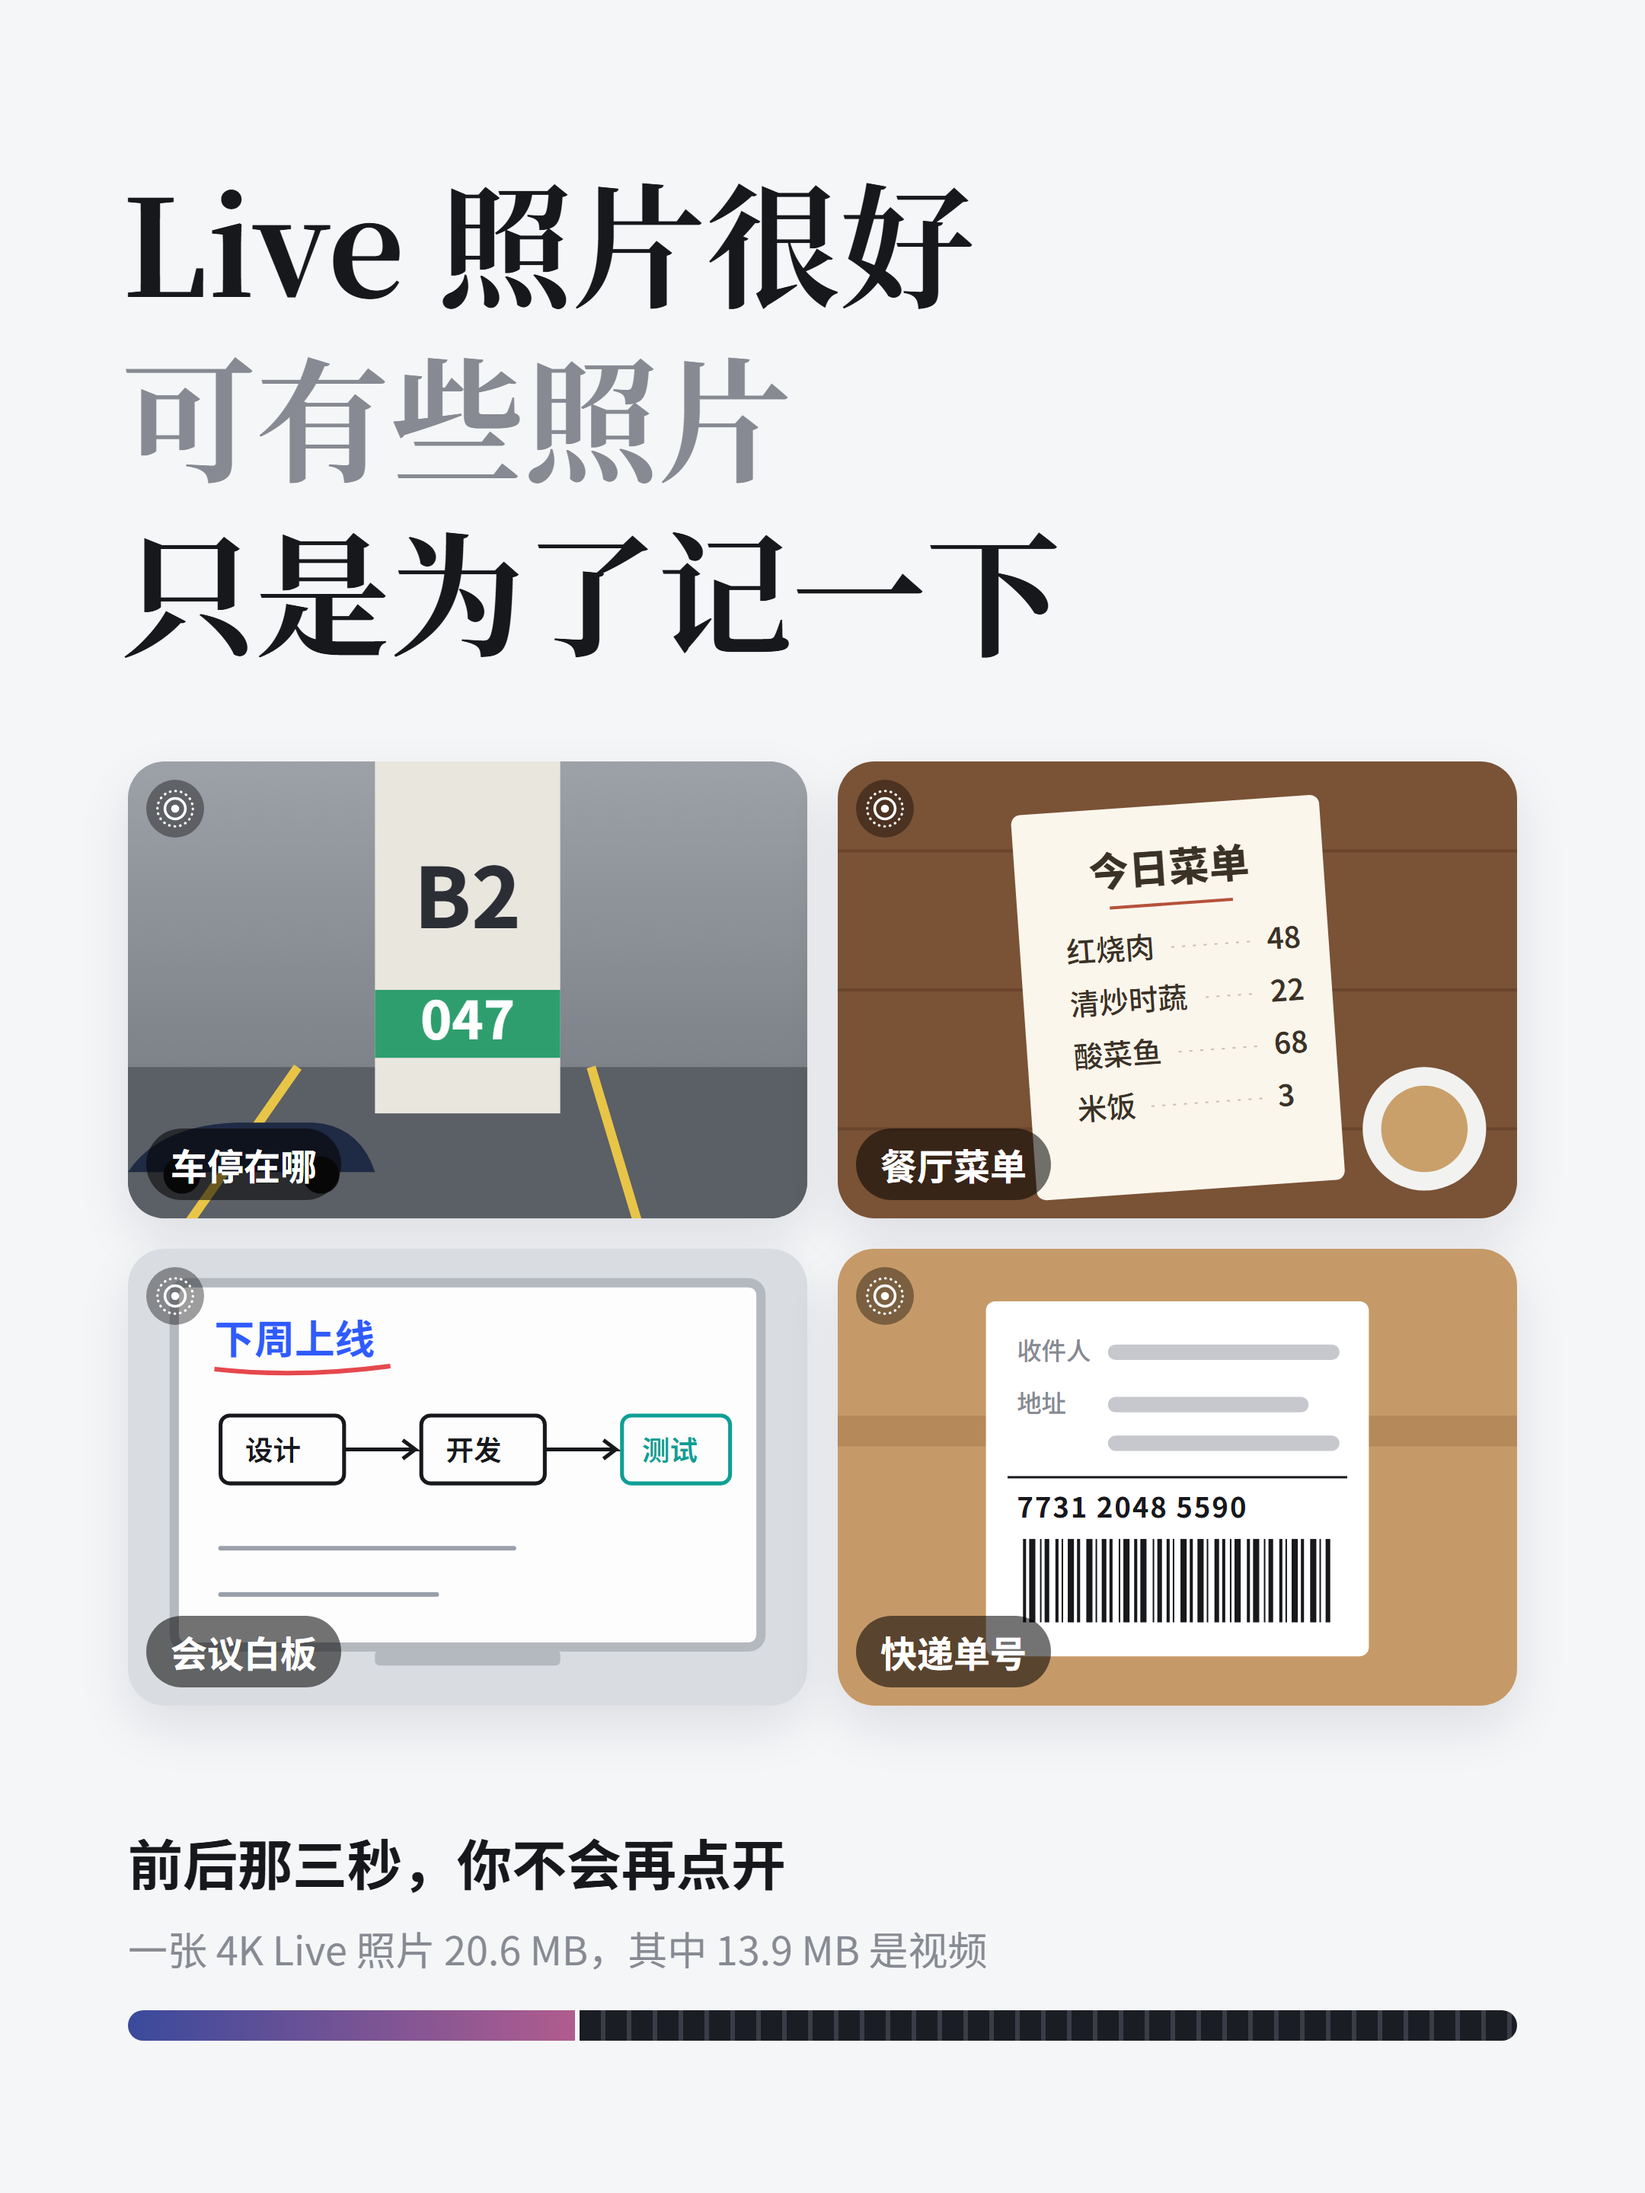
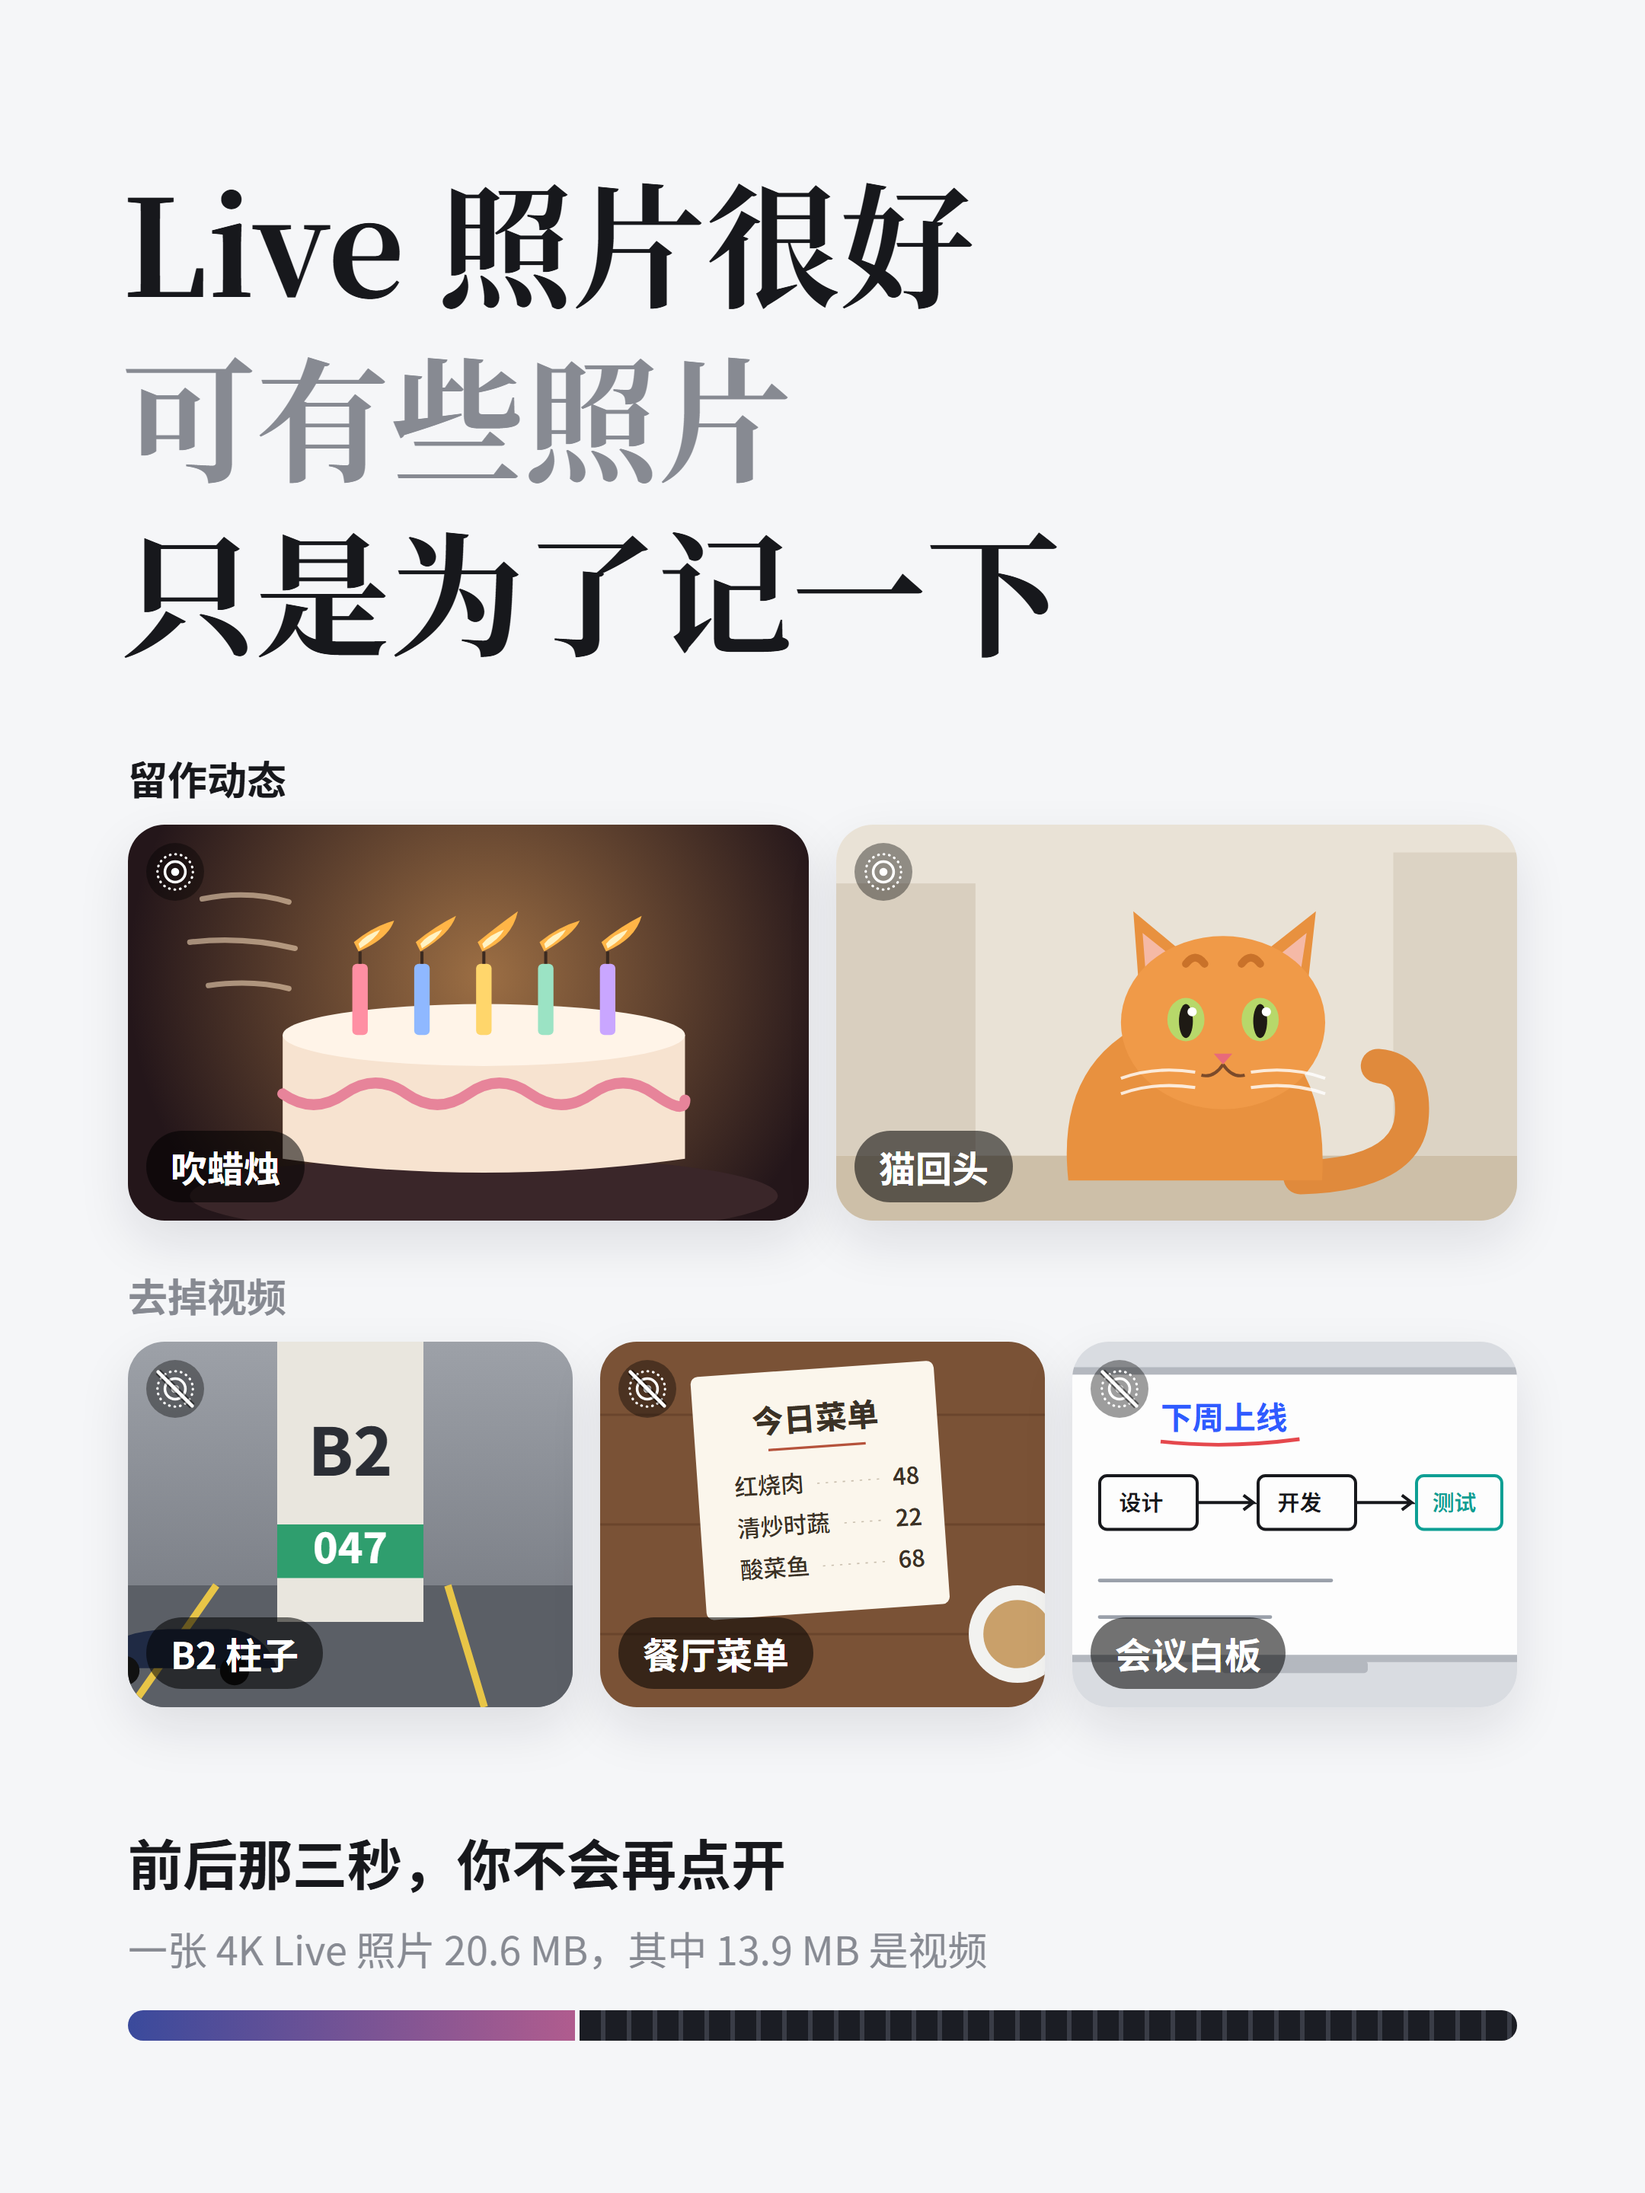
README 换上新文案，宣传图第 2、5 张更新

Changed region(s): [[0.062, 0.3438, 0.9306, 0.7812]]

diff --git a/README.md b/README.md
@@ -1,6 +1,10 @@
 # NoMotion
 
-安卓应用，删除动态照片里的视频，只留下照片。图像一个字节都不动。
+Live 图我很喜欢，平时拍照都是默认打开 Live 图开关。孩子吹蜡烛那一下，猫回头那一下，三秒视频比一张照片多出好多东西。
+
+可更多时候拍照只是为了记一下：车停在 B2 哪根柱子，餐厅的菜单，会议的白板……这些照片前后那三秒并无意义，却要多占几 MB 甚至十几 MB 的空间。
+
+所以做了个安卓 App 叫 NoMotion，专门用来去掉 Live 图里的视频。图像一个字节都不动。
 
 这个仓库只用来发布安装包，到 [Releases](https://github.com/zhangqihenry/NoMotion-app/releases/latest) 下载最新版。
 
@@ -11,6 +15,10 @@
 </p>
 
 ## 能处理的照片
+
+目前主要支持 vivo 手机，其他品牌支持有限。用别的手机又想用的朋友，可以在 [Issues](https://github.com/zhangqihenry/NoMotion-app/issues) 里留言，发几张自己手机拍的 Live 图原文件给我研究。
+
+已经认得的有：
 
 - vivo 的 Live 照片
 - 谷歌 Motion Photo 格式的动态照片
